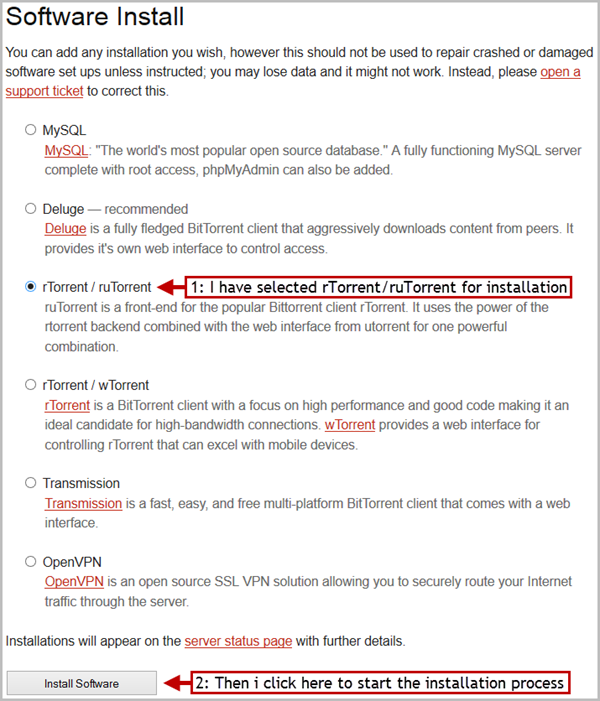
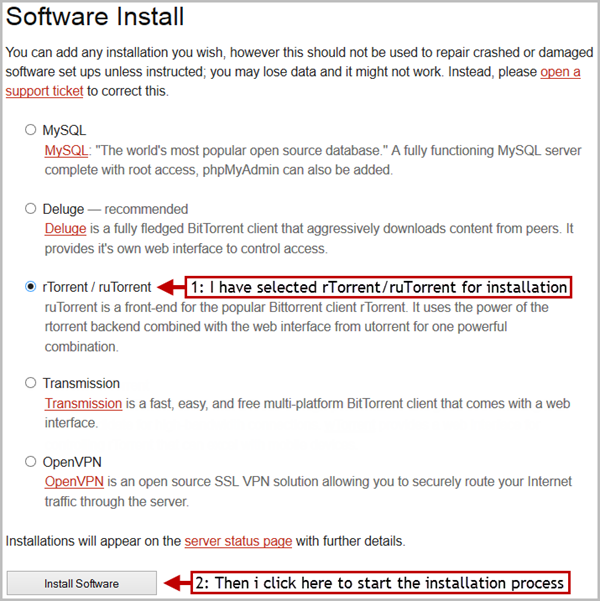
wtorrent removed

Changed region(s): [[0.0, 0.0, 0.99, 1.0]]

diff --git a/Feral Wiki/General/Using your account - common questions/readme.md b/Feral Wiki/General/Using your account - common questions/readme.md
@@ -11,7 +11,6 @@ Available to install via the `Install Software` link in your [Account Manager](h
 ![](https://raw.github.com/feralhosting/feralfilehosting/master/Feral%20Wiki/0%20Generic/install_software_link.png)
 
 rutorrent/rTorrent - [Selecting an rtorrent version](https://www.feralhosting.com/faq/view?question=202)
-wTorrent/rTorrent - [wTorrent - Usage and Troubleshooting](https://www.feralhosting.com/faq/view?question=3)
 Deluge / Deluge Web Ui + Deluge Thin Client - [Deluge Daemon - Remote control with the local Thin client](https://www.feralhosting.com/faq/view?question=76)
 Transmission / Transmission Web Ui + Transmission remote GUI - [Transmission and Transmission Remote GUI](https://www.feralhosting.com/faq/view?question=4)
 MYSQL - [Using Mysql](https://www.feralhosting.com/faq/view?question=9)
@@ -42,32 +41,15 @@ A: Email has been blocked due to abuse from people attempting to spam. If you ne
 
 A: You server has a dedicated IP that is shared by all the users on your server. So while you slot does have a dedicated IP, this IP is not unique to you.
 
-**Q:** Is my server a dedicated server?
+**Q:** Is my slot a dedicated server?
 ---
 
-A: No, Feral does not provide any dedicated servers. You slot will on a server that is shared by other users.
+A: No, Feral does not provide any dedicated servers. You slot will be on a server that is shared by other users.
 
 **Q:** Where is my slot located? Where are the the servers hosted.
 ---
 
 A: The servers are hosted at the [Interxion](http://www.interxion.com) carrier-neutral data centre in the [Netherlands](http://en.wikipedia.org/wiki/Netherlands).
-
-**Q:** What software is installed on my slot?
----
-
-A: You can check this yourself by using these command in [SSH](https://www.feralhosting.com/faq/view?question=12)
-
-To see if a specific programs is installed you can do this, where `program-name` is the name of the program you want information about:
-
-~~~
-aptitude show program-name | grep State
-~~~
-
-To see every installed program use this commands to create a new file in your server root called `software.txt` that will list all installed programs:
-
-~~~
-dpkg --get-selections > ~/software.txt
-~~~
 
 **Q:** Can I install Deluge,rTorrent/rutorrent, rtorrent/wuTorrent and transmission or can I only use one?
 ---
@@ -82,7 +64,7 @@ A: If you can provide sufficient evidence to show that you justifiably need this
 **Q:** What OS is running on my slot / What version of Linux us running on my slot?
 ---
 
-A: Your slot is running on Debian 7 Stable (wheezy)
+A: Your slot is running on Debian 7 Stable
 
 This SSH command will show you your current Debian version
 
@@ -118,7 +100,7 @@ A: Feral do not support external or third party applications that they do not pr
 
 A: Feral only supports one user account. This means they will only provide and support one set of user credentials (your account username and password). If you wish to share these credentials you can, but you do so at your own risk. Anyone you share you SSH/SFTP/FTP pass with will have as much control/access to and over the slot as you do.
 
-**1:** Recommended - Create limited and jailed users using this FAQ - [Installing an FTP daemon for extra accounts](https://www.feralhosting.com/faq/view?question=193) then share these credentials. This way they will never have total access to your slot.
+**1:** Recommended - Create limited and jailed users using this FAQ - [Installing a Proftpd daemon for extra accounts](https://www.feralhosting.com/faq/view?question=193) then share these credentials. This way they will never have total access to your slot.
 
 **2:** Create them a public/private key pair that you can easily revoke so you do not have to share you main password - [Public Key Authentication for password-less login](https://www.feralhosting.com/faq/view?question=13). This still give them the same level of access that you have, but keys are simple to revoke.
 
@@ -126,7 +108,7 @@ A: Feral only supports one user account. This means they will only provide and s
 
 A: Feral do not provide FTPS access as part of their set-up, only SFTP. You can however use this FAQ - [Installing an FTP daemon for extra accounts](https://www.feralhosting.com/faq/view?question=193) to set-up FTPS with limited users inside jailed directories.
 
-**Q:** Is there test file for Feral?
+**Q:** Is there a test file for Feral?
 ---
 
 A: Yes, here are some links:
@@ -196,7 +178,7 @@ A: Your upload will be throttled to 1Mbits for Cogent and 10Mbits for OVH for th
 
 A: Anything that is leaving(OUT) your server is upload. So anything your server has to send to you, such as an FTP/SFTP download, is something that is leaving the server. Anything Incoming(IN) is not counted to this usage.
 
-**Q: ** Using SFTP
+**Q:** Using SFTP
 ---
 
 SFTP is the ideal and supported way to securely transfer data between the server and your home computer. SFTP is FTP over SSH. All Feral users have SSH access to their slots. Feral does not use or support FTPS for file transfer.

diff --git a/Feral Wiki/General/Changing passwords/readme.md b/Feral Wiki/General/Changing passwords/readme.md
@@ -67,24 +67,6 @@ Then press and hold `CTRL` and then press `x` to save. Press `y` to confirm.
 
 **Important note:** Transmission cannot manually restarted by the user. After killing the process allow up to 5 minutes for it to automatically to restart.
 
-### wTorrent Password
-
-If you simply want to reset your wTorrent password, you can request a reinstall from the [**Install Software** link in your Manager](https://www.feralhosting.com/manager/) to get a new system-generated password for your wTorrent web interface. 
-
-If you want to set a custom password, you can change the wTorrent password by selecting **Admin** at the top then creating a new user with a new password with administrator privileges, you can then delete the old user.
-
-![](https://raw.github.com/feralhosting/feralfilehosting/master/Feral%20Wiki/General/Changing%20passwords/wtorrent.png) 
-
-If you have forgotten any changed passwords you will need to delete this folder:
-
-~~~
-~/www/$(whoami).$(hostname)/public_html/wtorrent/
-~~~
-
-Then reinstall it from the [**Install Software** link in your Manager](https://www.feralhosting.com/manager/), you will then get a new username and password.
-
-This should not affect rTorrent unless you have modified it yourself.
-
 ### Rutorrent Web Gui Password
 
 **Important Note:** Please also see this FAQ to manage your rutorrent password and users: [Password protect your WWW folder](https://www.feralhosting.com/faq/view?question=22)

diff --git a/Feral Wiki/Linux Command-Line - Advanced/Upload a Downloaded Torrent to Another Tracker/readme.md b/Feral Wiki/Linux Command-Line - Advanced/Upload a Downloaded Torrent to Another Tracker/readme.md
@@ -66,7 +66,7 @@ Please substitute things with your corresponding file and folder names. If the f
 The command will run and display a summary on in putty when it's done. The .torrent file will be in the same folder where you created it, in this case the data folder:
 `~/private/rtorrent/data` or `~/private/transmission/data`
 
-You can now download the .torrent file with filezilla to your PC, and then upload it to the tracker website. When the tracker generates a new .torrent file, download it to your PC, and load it via the wtorrent web gui. Or you can upload it to the server with filezilla, and drop it in the watch folder:
+You can now download the .torrent file with filezilla to your PC, and then upload it to the tracker website. When the tracker generates a new .torrent file, download it to your PC, and load it via the Rutorrent web gui. Or you can upload it to the server with filezilla, and drop it in the watch folder:
 `~/private/rtorrent/watch` or `~/private/tranmission/watch`
 
 It will automatically load in rtorrent or Transmission, do a hash check, and start seeding to the new tracker.

diff --git a/Feral Wiki/HTTP/Updating Apache to nginx/readme.md b/Feral Wiki/HTTP/Updating Apache to nginx/readme.md
@@ -20,8 +20,8 @@ After **waiting 5 minutes** Apache will shut down and `nginx` will have been aut
 - Configure PHP
 - Serve domains from `~/www/*/public_html`
 - Password protect rutorrent
-- Set up an rtorrent SCGI rpc mount point at `/$username/RPC` (necessary for wtorrent and Transdroid)
-- Deny access to areas of rutorrent / wtorrent which do not need web access
+- Set up an rtorrent SCGI rpc mount point at `/$username/RPC` (necessary for Transdroid)
+- Deny access to areas of rutorrent which do not need web access
 - Deny access to all files beginning with `.ht`
 - Deny access to any folder with a `.htaccess` file at the time of auto-configuration
 
@@ -97,3 +97,6 @@ In regards to this particular action:
 - Deny access to any folder with a `.htaccess` file at the time of auto-configuration
 
 What will happen is that a numbered `deny.conf` will be created in the the `~/.nginx/conf.d/000-default-server.d` directory. This can break certain apps and will happen during the upgrade from Apache to nginx. An example of this is `_h5ai` if ti was present during before upgrading to nginx.
+
+
+

diff --git a/Feral Wiki/Installable software/rTorrent - troubleshooting common errors/readme.md b/Feral Wiki/Installable software/rTorrent - troubleshooting common errors/readme.md
@@ -287,7 +287,7 @@ rm -f ~/private/rtorrent/work/rtorrent.dht_cache
 screen rtorrent
 ~~~
 
-It should now launch without an error. Log into your wTorrent or ruTorrent session to verify.
+It should now launch without an error. Log into your ruTorrent session to verify.
 
 
 
